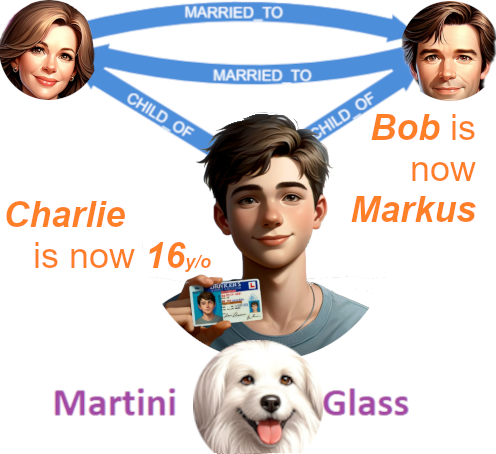
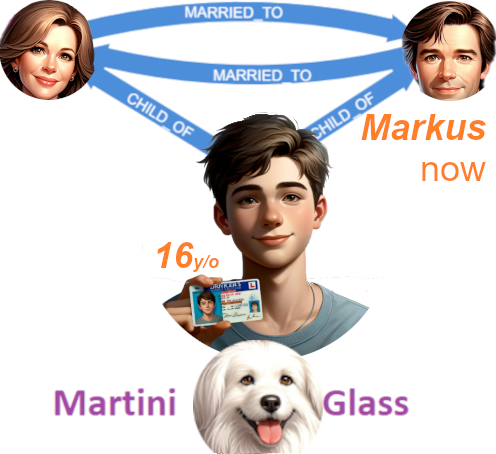
Worked on graphics and continued refining keyword presentation.

diff --git a/the-joneses/martini-scroller-app/src/KeywordCounter.js b/the-joneses/martini-scroller-app/src/KeywordCounter.js
@@ -7,11 +7,12 @@ function KeywordCounter({ keywordCounters, keywordName, showCounterLabel = false
       return null; // Don't render if lockedCount is 0 or undefined
     }
   
-    const keywordStyle = keyword.isStale ? 'staleKeyword' : 'lockedKeyword';
+    const keywordStyle = keyword.isStale && !alwaysShow1 ? 'staleKeyword' : 'lockedKeyword';
+    const alwaysShow1Value = alwaysShow1 && keyword.isStale ? 0 : 1;
   
     return (
-      <span className={' charlieCounter ' + (keywordName == 'charlie' ? 'theCharlieCounter' : 'otherCounters')}>
-        <span className={keywordStyle}>{keyword.name}{ showCounterLabel ? ' Counter' : '' }:</span><span>{alwaysShow1 ? 1 : keyword.lockedCount}</span>
+      <span className={' charlieCounter ' + (keywordName == 'charlie' ? 'theCharlieCounter' : 'otherCounters')} style={{display:keyword.isHighlightable ? '' : 'none'}}>
+        <span className={keywordStyle}>{keyword.name}{ showCounterLabel ? ' Counter' : '' }:</span><span>{alwaysShow1 ? alwaysShow1Value : keyword.lockedCount}</span>
       </span>
     );
   }

diff --git a/the-joneses/martini-scroller-app/src/VariationCoordinator.js b/the-joneses/martini-scroller-app/src/VariationCoordinator.js
@@ -95,6 +95,22 @@ const VariationCoordinator = ({
   };
 
   useEffect(() => {
+    if (!currentChapter) return; // Exit if currentChapter is not defined
+  
+    const newCounters = { ...keywordCounters };
+    const highlightableKeywords = new Set((currentChapter.keywords || []).map(keyword => keyword.toLowerCase())); // Normalize and create a Set for easier checking
+    const staleKeywords = new Set((currentChapter.staleKeywords || []).map(keyword => keyword.toLowerCase())); // Normalize and create a Set for easier checking
+  
+    Object.entries(newCounters).forEach(([key, counter]) => {
+      counter.isHighlightable = highlightableKeywords.has(key);
+      counter.isStale = staleKeywords.has(key);
+    });
+  
+    setKeywordCounters(newCounters); // Update the state with the modified counters
+  }, [currentChapter, keywordCounters]);
+  
+
+  useEffect(() => {
     let interval;
     const startInterval = () => {
       if (interval) return;

diff --git a/the-joneses/martini-scroller-app/src/GraphViewer.js b/the-joneses/martini-scroller-app/src/GraphViewer.js
@@ -36,6 +36,8 @@ const GraphViewer = ({ data, story, keywordCounters }) => {
         <KeywordCounter keywordName={'alice'} keywordCounters={keywordCounters} alwaysShow1={true}/>
         <KeywordCounter keywordName={'bob'} keywordCounters={keywordCounters} alwaysShow1={true}/>
         <KeywordCounter keywordName={'markus'} keywordCounters={keywordCounters} alwaysShow1={true}/>
+        <KeywordCounter keywordName={'frank'} keywordCounters={keywordCounters} alwaysShow1={true}/>
+        <KeywordCounter keywordName={'dingo'} keywordCounters={keywordCounters} alwaysShow1={true}/>
       </div>
 
       <div style={{ padding: "1em", fontSize: "0.8em" }}>

diff --git a/the-joneses/martini-scroller-app/src/TextScroller.js b/the-joneses/martini-scroller-app/src/TextScroller.js
@@ -36,7 +36,7 @@ const TextScroller = ({ currentVariation, currentTime, keywordCounters }) => {
         <KeywordCounter keywordCounters={keywordCounters} keywordName={'bob'} />
         <KeywordCounter keywordCounters={keywordCounters} keywordName={'markus'} />
         <KeywordCounter keywordCounters={keywordCounters} keywordName={'frank'} />
-        {/* <KeywordCounter keywordCounters={keywordCounters} keywordName={'dingo'} /> */}
+        <KeywordCounter keywordCounters={keywordCounters} keywordName={'dingo'} />
         </div>
       </div>
       {queue.map(variation => (
